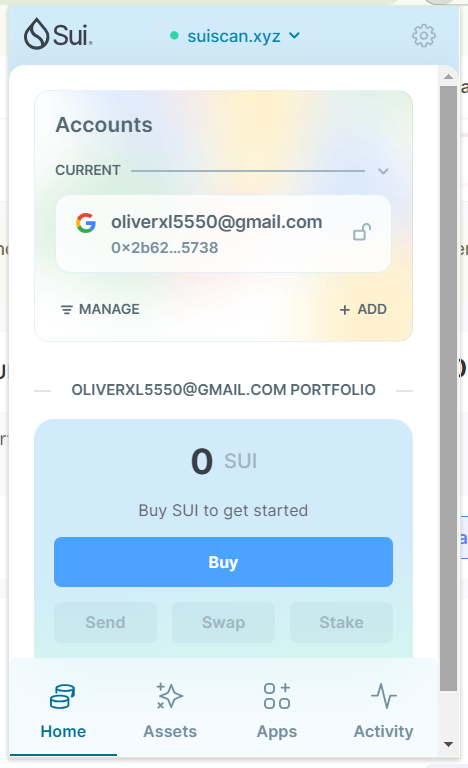
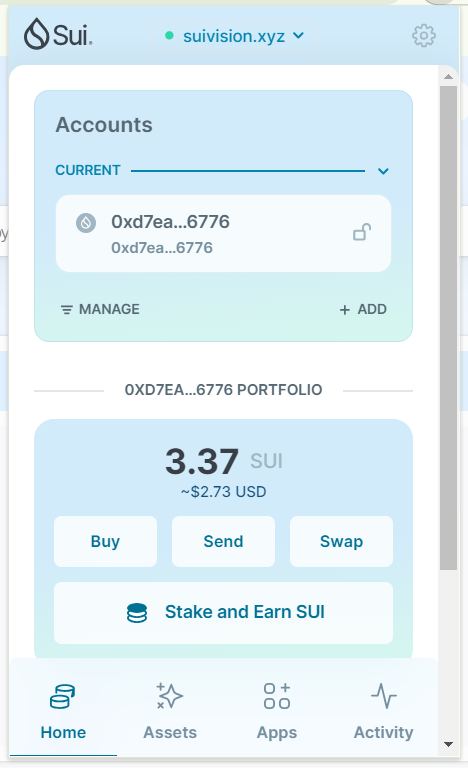
完成 task 2

diff --git a/mover/oliverxl/code/task2/move_coin/Readme.MD b/mover/oliverxl/code/task2/move_coin/Readme.MD
@@ -1,0 +1,186 @@
+Transaction Digest: HiiKWK7eshe6cnCvVRZUTjsKBGp5oFcKRW47TNXbGomp
+╭──────────────────────────────────────────────────────────────────────────────────────────────────────────────╮
+│ Transaction Data                                                                                             │
+├──────────────────────────────────────────────────────────────────────────────────────────────────────────────┤
+│ Sender: 0xd7ea6893354b5cdc343a86fe0f0423b74294ea1c52ffb749a56b4e1591496776                                   │
+│ Gas Owner: 0xd7ea6893354b5cdc343a86fe0f0423b74294ea1c52ffb749a56b4e1591496776                                │
+│ Gas Budget: 100000000 MIST                                                                                   │
+│ Gas Price: 759 MIST                                                                                          │
+│ Gas Payment:                                                                                                 │
+│  ┌──                                                                                                         │
+│  │ ID: 0x6c6c5de5391a0bb0073731f26884f23059f8e0f90fc65ca458bd0f9f17506416                                    │
+│  │ Version: 292648714                                                                                        │
+│  │ Digest: 8eQLEo3VS8jueUhapENBqnvSgNHv9ieMMwU28hBzS1oq                                                      │
+│  └──                                                                                                         │
+│                                                                                                              │
+│ Transaction Kind: Programmable                                                                               │
+│ ╭──────────────────────────────────────────────────────────────────────────────────────────────────────────╮ │
+│ │ Input Objects                                                                                            │ │
+│ ├──────────────────────────────────────────────────────────────────────────────────────────────────────────┤ │
[1 lines of base64/hex data omitted]
+│ ╰──────────────────────────────────────────────────────────────────────────────────────────────────────────╯ │
+│ ╭─────────────────────────────────────────────────────────────────────────╮                                  │
+│ │ Commands                                                                │                                  │
+│ ├─────────────────────────────────────────────────────────────────────────┤                                  │
+│ │ 0  Publish:                                                             │                                  │
+│ │  ┌                                                                      │                                  │
+│ │  │ Dependencies:                                                        │                                  │
+│ │  │   0x0000000000000000000000000000000000000000000000000000000000000001 │                                  │
+│ │  │   0x0000000000000000000000000000000000000000000000000000000000000002 │                                  │
+│ │  └                                                                      │                                  │
+│ │                                                                         │                                  │
+│ │ 1  TransferObjects:                                                     │                                  │
+│ │  ┌                                                                      │                                  │
+│ │  │ Arguments:                                                           │                                  │
+│ │  │   Result 0                                                           │                                  │
+│ │  │ Address: Input  0                                                    │                                  │
+│ │  └                                                                      │                                  │
+│ ╰─────────────────────────────────────────────────────────────────────────╯                                  │
+│                                                                                                              │
+│ Signatures:                                                                                                  │
+│    3q45I5RcXl9Zf3v1w16WWLgRSLWCAb0zHsS5+t/z96X8v3I+PJoJOfLcSrAnmiS2KQtM8qUBtA2tYSizHugeCw==                  │
+│                                                                                                              │
+╰──────────────────────────────────────────────────────────────────────────────────────────────────────────────╯
+╭───────────────────────────────────────────────────────────────────────────────────────────────────╮
+│ Transaction Effects                                                                               │
+├───────────────────────────────────────────────────────────────────────────────────────────────────┤
+│ Digest: HiiKWK7eshe6cnCvVRZUTjsKBGp5oFcKRW47TNXbGomp                                              │
+│ Status: Success                                                                                   │
+│ Executed Epoch: 459                                                                               │
+│                                                                                                   │
+│ Created Objects:                                                                                  │
+│  ┌──                                                                                              │
+│  │ ID: 0x06051a8551294f499805069646968f923104f3f953f1652f86c5c5da3090d58b                         │
+│  │ Owner: Immutable                                                                               │
+│  │ Version: 1                                                                                     │
+│  │ Digest: 3fYS4JzDNXA4u9WxNQqTFZXFzBu2ysiYVxS1hApUiV2P                                           │
+│  └──                                                                                              │
+│  ┌──                                                                                              │
+│  │ ID: 0x0c2427d05e4d24b5df209bca353dcb5cd7c98cfe0dad06ae2878572e6ff9aeaa                         │
+│  │ Owner: Immutable                                                                               │
+│  │ Version: 292648715                                                                             │
+│  │ Digest: C3bAENcsU7LnxtLiZJsjwR4dWp3et35uXirwAp244jnG                                           │
+│  └──                                                                                              │
+│  ┌──                                                                                              │
+│  │ ID: 0x0ef29f4dbc5450f9ba42b4d55dcdc38bf7a320bb437f8b5b6ac47953571e2cef                         │
+│  │ Owner: Account Address ( 0xd7ea6893354b5cdc343a86fe0f0423b74294ea1c52ffb749a56b4e1591496776 )  │
+│  │ Version: 292648715                                                                             │
+│  │ Digest: 6UvomjBXGESVvWvc75gq2LV9LETCDPbnPKSN1r3VTp7                                            │
+│  └──                                                                                              │
+│  ┌──                                                                                              │
+│  │ ID: 0x1fb8df0f3a5ebec1ad34951d6f567e7d7a8e947ce2676e99c136ae877ad4738f                         │
+│  │ Owner: Account Address ( 0xd7ea6893354b5cdc343a86fe0f0423b74294ea1c52ffb749a56b4e1591496776 )  │
+│  │ Version: 292648715                                                                             │
+│  │ Digest: 7GzArZc8zn6Bq6WD2yjuXNuy6MdQGv1okjyQcFsKps3n                                           │
+│  └──                                                                                              │
+│  ┌──                                                                                              │
+│  │ ID: 0x9a5f9c160d3a3712b2263ce4f5141c3d419dd42f1b764e7cccd8926d184381a1                         │
+│  │ Owner: Immutable                                                                               │
+│  │ Version: 292648715                                                                             │
+│  │ Digest: GyYuu7ST8vKGB1LU19aSFkASjPJpVFfMVqjKqTThHPYb                                           │
+│  └──                                                                                              │
+│  ┌──                                                                                              │
+│  │ ID: 0xf073bb8d6decd8f81c98afbb7fd811b0f9b5334d7564e105149eee667a1ee81e                         │
+│  │ Owner: Shared( 292648715 )                                                                     │
+│  │ Version: 292648715                                                                             │
+│  │ Digest: DUNokbDJ9ipFHjrTzWTicCrVU58YNKb77HNSy7BBS8Vc                                           │
+│  └──                                                                                              │
+│ Mutated Objects:                                                                                  │
+│  ┌──                                                                                              │
+│  │ ID: 0x6c6c5de5391a0bb0073731f26884f23059f8e0f90fc65ca458bd0f9f17506416                         │
+│  │ Owner: Account Address ( 0xd7ea6893354b5cdc343a86fe0f0423b74294ea1c52ffb749a56b4e1591496776 )  │
+│  │ Version: 292648715                                                                             │
+│  │ Digest: 14axXQ4tBPAAwtd5KkympxhFhY49wk1smB8CbNhiAZRE                                           │
+│  └──                                                                                              │
+│ Gas Object:                                                                                       │
+│  ┌──                                                                                              │
+│  │ ID: 0x6c6c5de5391a0bb0073731f26884f23059f8e0f90fc65ca458bd0f9f17506416                         │
+│  │ Owner: Account Address ( 0xd7ea6893354b5cdc343a86fe0f0423b74294ea1c52ffb749a56b4e1591496776 )  │
+│  │ Version: 292648715                                                                             │
+│  │ Digest: 14axXQ4tBPAAwtd5KkympxhFhY49wk1smB8CbNhiAZRE                                           │
+│  └──                                                                                              │
+│ Gas Cost Summary:                                                                                 │
+│    Storage Cost: 22275600 MIST                                                                    │
+│    Computation Cost: 759000 MIST                                                                  │
+│    Storage Rebate: 978120 MIST                                                                    │
+│    Non-refundable Storage Fee: 9880 MIST                                                          │
+│                                                                                                   │
+│ Transaction Dependencies:                                                                         │
+│    C7H22EWGgQahtHctWByQKA8g7daGcpReQUHb8JZswKpj                                                   │
+│    EY8ZaDkjhyBXX8iu9HXPQWznBp4QUcpAaTuwXSheDVuq                                                   │
+│    FZQQfVC428RKpDcuobUQVp45DMM4PwiELT4YH4ivaHZA                                                   │
+╰───────────────────────────────────────────────────────────────────────────────────────────────────╯
+╭─────────────────────────────╮
+│ No transaction block events │
+╰─────────────────────────────╯
+
+╭──────────────────────────────────────────────────────────────────────────────────────────────────────────────────────────────────────────────╮
+│ Object Changes                                                                                                                               │
+├──────────────────────────────────────────────────────────────────────────────────────────────────────────────────────────────────────────────┤
+│ Created Objects:                                                                                                                             │
+│  ┌──                                                                                                                                         │
+│  │ ObjectID: 0x0c2427d05e4d24b5df209bca353dcb5cd7c98cfe0dad06ae2878572e6ff9aeaa                                                              │
+│  │ Sender: 0xd7ea6893354b5cdc343a86fe0f0423b74294ea1c52ffb749a56b4e1591496776                                                                │
+│  │ Owner: Immutable                                                                                                                          │
+│  │ ObjectType: 0x2::coin::CoinMetadata<0x6051a8551294f499805069646968f923104f3f953f1652f86c5c5da3090d58b::oliverxl_faucet::OLIVERXL_FAUCET>  │
+│  │ Version: 292648715                                                                                                                        │
+│  │ Digest: C3bAENcsU7LnxtLiZJsjwR4dWp3et35uXirwAp244jnG                                                                                      │
+│  └──                                                                                                                                         │
+│  ┌──                                                                                                                                         │
+│  │ ObjectID: 0x0ef29f4dbc5450f9ba42b4d55dcdc38bf7a320bb437f8b5b6ac47953571e2cef                                                              │
+│  │ Sender: 0xd7ea6893354b5cdc343a86fe0f0423b74294ea1c52ffb749a56b4e1591496776                                                                │
+│  │ Owner: Account Address ( 0xd7ea6893354b5cdc343a86fe0f0423b74294ea1c52ffb749a56b4e1591496776 )                                             │
+│  │ ObjectType: 0x2::coin::TreasuryCap<0x6051a8551294f499805069646968f923104f3f953f1652f86c5c5da3090d58b::oliverxl_coin::OLIVERXL_COIN>       │
+│  │ Version: 292648715                                                                                                                        │
+│  │ Digest: 6UvomjBXGESVvWvc75gq2LV9LETCDPbnPKSN1r3VTp7                                                                                       │
+│  └──                                                                                                                                         │
+│  ┌──                                                                                                                                         │
+│  │ ObjectID: 0x1fb8df0f3a5ebec1ad34951d6f567e7d7a8e947ce2676e99c136ae877ad4738f                                                              │
+│  │ Sender: 0xd7ea6893354b5cdc343a86fe0f0423b74294ea1c52ffb749a56b4e1591496776                                                                │
+│  │ Owner: Account Address ( 0xd7ea6893354b5cdc343a86fe0f0423b74294ea1c52ffb749a56b4e1591496776 )                                             │
+│  │ ObjectType: 0x2::package::UpgradeCap                                                                                                      │
+│  │ Version: 292648715                                                                                                                        │
+│  │ Digest: 7GzArZc8zn6Bq6WD2yjuXNuy6MdQGv1okjyQcFsKps3n                                                                                      │
+│  └──                                                                                                                                         │
+│  ┌──                                                                                                                                         │
+│  │ ObjectID: 0x9a5f9c160d3a3712b2263ce4f5141c3d419dd42f1b764e7cccd8926d184381a1                                                              │
+│  │ Sender: 0xd7ea6893354b5cdc343a86fe0f0423b74294ea1c52ffb749a56b4e1591496776                                                                │
+│  │ Owner: Immutable                                                                                                                          │
+│  │ ObjectType: 0x2::coin::CoinMetadata<0x6051a8551294f499805069646968f923104f3f953f1652f86c5c5da3090d58b::oliverxl_coin::OLIVERXL_COIN>      │
+│  │ Version: 292648715                                                                                                                        │
+│  │ Digest: GyYuu7ST8vKGB1LU19aSFkASjPJpVFfMVqjKqTThHPYb                                                                                      │
+│  └──                                                                                                                                         │
+│  ┌──                                                                                                                                         │
+│  │ ObjectID: 0xf073bb8d6decd8f81c98afbb7fd811b0f9b5334d7564e105149eee667a1ee81e                                                              │
+│  │ Sender: 0xd7ea6893354b5cdc343a86fe0f0423b74294ea1c52ffb749a56b4e1591496776                                                                │
+│  │ Owner: Shared( 292648715 )                                                                                                                │
+│  │ ObjectType: 0x2::coin::TreasuryCap<0x6051a8551294f499805069646968f923104f3f953f1652f86c5c5da3090d58b::oliverxl_faucet::OLIVERXL_FAUCET>   │
+│  │ Version: 292648715                                                                                                                        │
+│  │ Digest: DUNokbDJ9ipFHjrTzWTicCrVU58YNKb77HNSy7BBS8Vc                                                                                      │
+│  └──                                                                                                                                         │
+│ Mutated Objects:                                                                                                                             │
+│  ┌──                                                                                                                                         │
+│  │ ObjectID: 0x6c6c5de5391a0bb0073731f26884f23059f8e0f90fc65ca458bd0f9f17506416                                                              │
+│  │ Sender: 0xd7ea6893354b5cdc343a86fe0f0423b74294ea1c52ffb749a56b4e1591496776                                                                │
+│  │ Owner: Account Address ( 0xd7ea6893354b5cdc343a86fe0f0423b74294ea1c52ffb749a56b4e1591496776 )                                             │
+│  │ ObjectType: 0x2::coin::Coin<0x2::sui::SUI>                                                                                                │
+│  │ Version: 292648715                                                                                                                        │
+│  │ Digest: 14axXQ4tBPAAwtd5KkympxhFhY49wk1smB8CbNhiAZRE                                                                                      │
+│  └──                                                                                                                                         │
+│ Published Objects:                                                                                                                           │
+│  ┌──                                                                                                                                         │
+│  │ PackageID: 0x06051a8551294f499805069646968f923104f3f953f1652f86c5c5da3090d58b                                                             │
+│  │ Version: 1                                                                                                                                │
+│  │ Digest: 3fYS4JzDNXA4u9WxNQqTFZXFzBu2ysiYVxS1hApUiV2P                                                                                      │
+│  │ Modules: oliverxl_coin, oliverxl_faucet                                                                                                   │
+│  └──                                                                                                                                         │
+╰──────────────────────────────────────────────────────────────────────────────────────────────────────────────────────────────────────────────╯
+╭───────────────────────────────────────────────────────────────────────────────────────────────────╮
+│ Balance Changes                                                                                   │
+├───────────────────────────────────────────────────────────────────────────────────────────────────┤
+│  ┌──                                                                                              │
+│  │ Owner: Account Address ( 0xd7ea6893354b5cdc343a86fe0f0423b74294ea1c52ffb749a56b4e1591496776 )  │
+│  │ CoinType: 0x2::sui::SUI                                                                        │
+│  │ Amount: -22056480                                                                              │
+│  └──                                                                                              │
+╰───────────────────────────────────────────────────────────────────────────────────────────────────╯

diff --git a/mover/oliverxl/readme.md b/mover/oliverxl/readme.md
@@ -1,10 +1,10 @@
 ## 基本信息
[2 lines of base64/hex data omitted]
 > 首次参与需要完成第一个任务注册好钱包地址才被合并，并且后续学习奖励会打入这个地址
 - github: `oliverxl`
 
 ## 个人简介
-- 工作经验: 10年+
+- 工作经验: 20年+
 - 技术栈: `Java` `JS`
 > 重要提示 请认真写自己的简介
 - 多年web2开发经验，对Move特别感兴趣，想通过Move入门区块链
@@ -19,11 +19,11 @@
 - [x] package id 在 scan上的查看截图:![Scan截图](./images/suiscan_oliverxl.png)
 
 ##   02 move coin
-- [] My Coin package id : 
-- [] Faucet package id : 
-- [] 转账 `My Coin` hash:
-- [] `Faucet Coin` address1 mint hash:
-- [] `Faucet Coin` address2 mint hash:
+- [x] My Coin package id : 0x06051a8551294f499805069646968f923104f3f953f1652f86c5c5da3090d58b
+- [x] Faucet package id :  0x06051a8551294f499805069646968f923104f3f953f1652f86c5c5da3090d58b
+- [x] 转账 `My Coin` hash:  AkKUMhfhtqjKGQHSFbJgBaVUvVfUr5tknpgMn5V7ibdZ
+- [x] `Faucet Coin` address1 mint hash: 8bRAvP7g7EbRnk3U1b5yCYKDHfHvDkSmrgPYqnQyAees
+- [x] `Faucet Coin` address2 mint hash: 9w1BVCvMiufdQgYDCtrLB9QppirWNZDURSiBX9pMX8yu
 
 ##   03 move NFT
 - [] nft package id :
